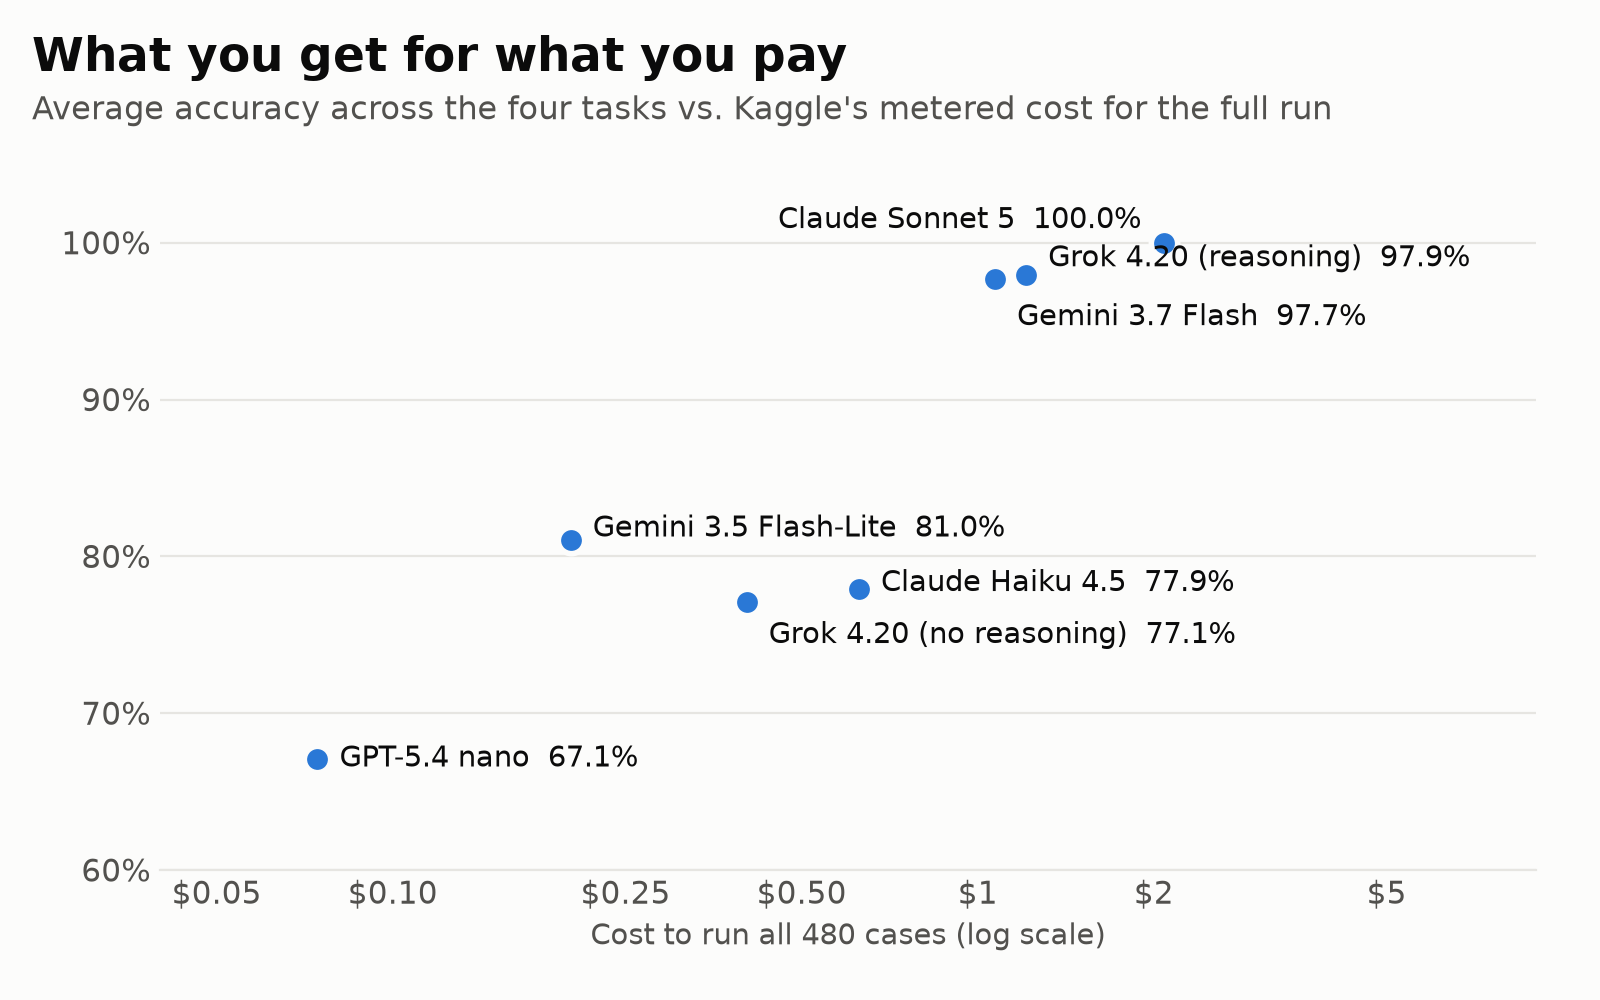
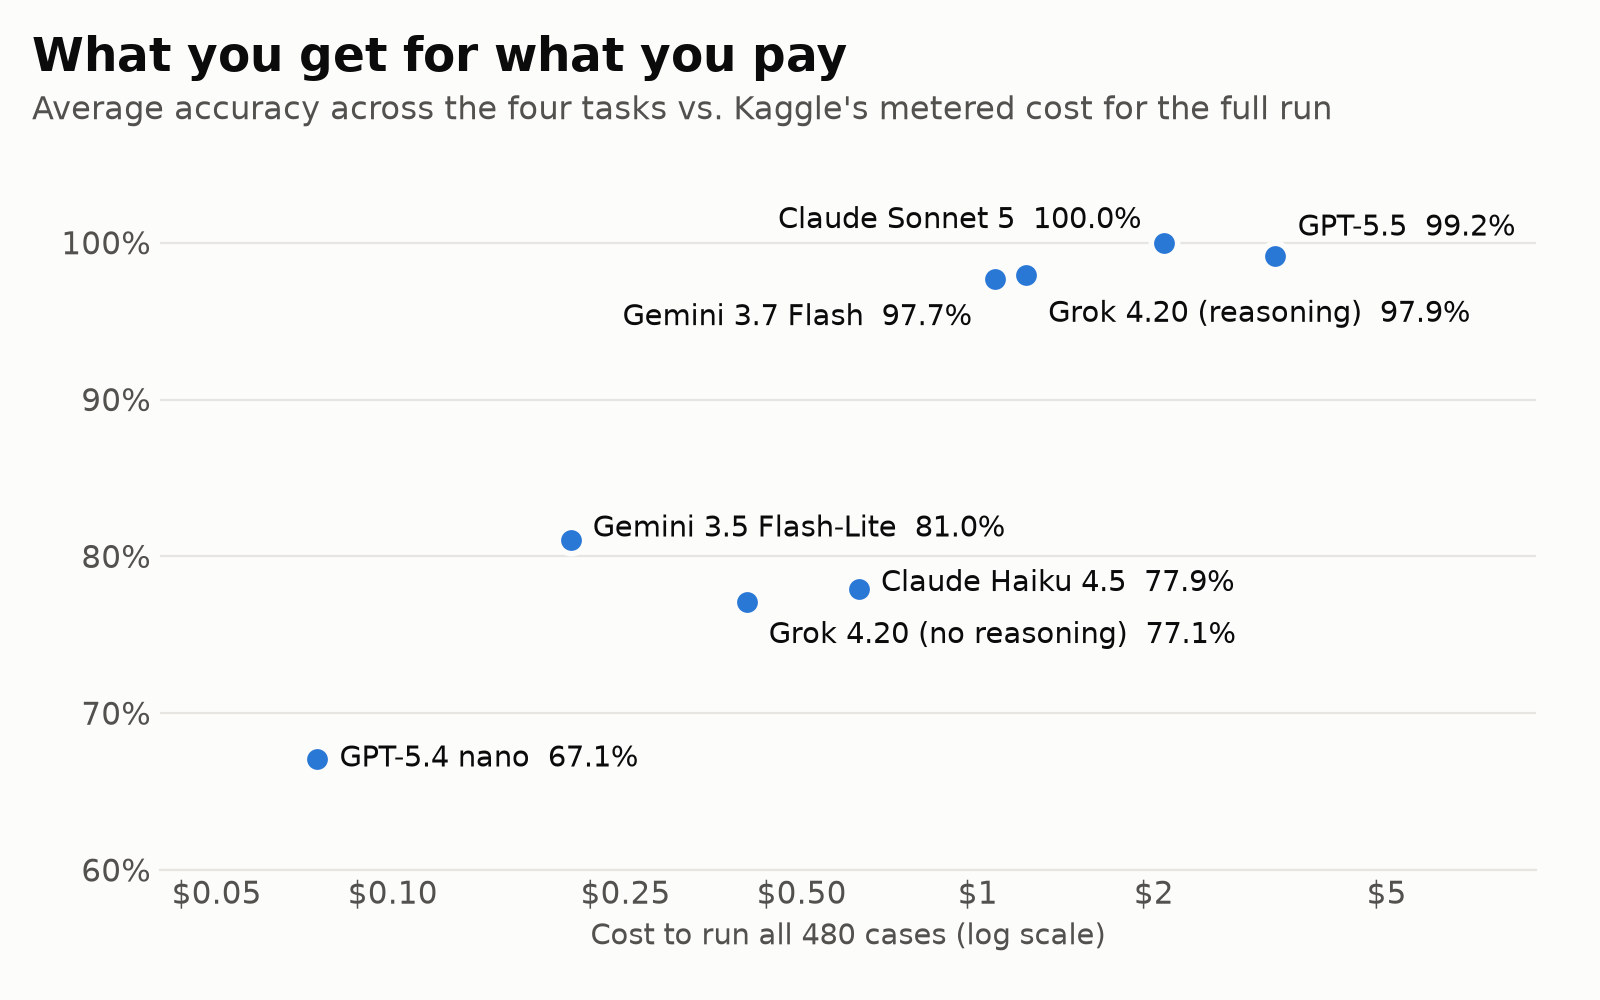
Add GPT-5.5 results to charts and post; document the jitter-rule ambiguity
GPT-5.5 complete on task v4: 100/100/96.7/100 (99.2 overall, $3.23). Its four
diagnosis misses are all page_one_exit cases that the prompt's jitter rule
('never a cause') contradicts; disclosed in the post and task docs.

Changed region(s): [[0.625, 0.217, 0.9375, 0.341], [0.375, 0.31, 0.5625, 0.341]]

diff --git a/scripts/make_charts.py b/scripts/make_charts.py
@@ -128,10 +128,10 @@ def chart_value(models):
     fig, ax = plt.subplots(figsize=(8, 5), facecolor=SURFACE)
     fig.subplots_adjust(left=0.10, right=0.96, top=0.82, bottom=0.13)
     offsets = {  # label placement, tuned by eye so nothing collides
-        "Claude Sonnet 5": (-8, 8, "right"), "Grok 4.20 (reasoning)": (8, 6, "left"),
-        "Gemini 3.7 Flash": (8, -14, "left"), "Gemini 3.5 Flash-Lite": (8, 4, "left"),
+        "Claude Sonnet 5": (-8, 8, "right"), "Grok 4.20 (reasoning)": (8, -14, "left"),
+        "Gemini 3.7 Flash": (-8, -14, "right"), "Gemini 3.5 Flash-Lite": (8, 4, "left"),
         "Claude Haiku 4.5": (8, 2, "left"), "Grok 4.20 (no reasoning)": (8, -12, "left"),
-        "GPT-5.4 nano": (8, 0, "left"), "GPT-5.5": (8, 0, "left"),
+        "GPT-5.4 nano": (8, 0, "left"), "GPT-5.5": (8, 10, "left"),
     }
     for name, v in models.items():
         overall = sum(v["acc"].values()) / 4

diff --git a/post/dev-post.md b/post/dev-post.md
@@ -111,6 +111,7 @@ comparison answers a practical question:
 | Model | Tool choice | Data reading | Diagnosis | SQL | **Overall** | Cost (480 cases) |
 |---|---|---|---|---|---|---|
 | Claude Sonnet 5 | 100 | 100 | 100 | 100 | **100.0** | $2.08 |
+| GPT-5.5 | 100 | 100 | 96.7 | 100 | **99.2** | $3.23 |
 | Grok 4.20 (reasoning) | 100 | 96.7 | 100 | 95.0 | **97.9** | $1.21 |
 | Gemini 3.7 Flash | 100 | 100 | 100 | 90.8 | **97.7** | $1.07 |
 | Gemini 3.5 Flash-Lite | 98.3 | 88.3 | 49.2 | 88.3 | **81.0** | $0.20 |
@@ -118,16 +119,12 @@ comparison answers a practical question:
 | Grok 4.20 (no reasoning) | 98.3 | 82.5 | 35.0 | 92.5 | **77.1** | $0.40 |
 | GPT-5.4 nano | 93.3 | 61.7 | 20.0 | 93.3 | **67.1** | $0.07 |
 
-**GPT-5.5** scored 100 on tool choice, 100 on data reading and **90.8 on diagnosis**. Of the expensive
-models, it's the only one below 100% on diagnosis. It sits in its own line because Kaggle's daily model
-budget ran out before its SQL run.
-
 ### 1. Tool choice is solved. Diagnosis is where models split.
 
 Every model picked the right tool at least 93% of the time. So "can it call tools?" is no longer the
 interesting question for an analytics assistant. The real question is whether it understands what the
-numbers *mean*. On diagnosis, the top three models score 100%, and every cheaper model scores between
-20% and 49%.
+numbers *mean*. On diagnosis, the top three models score 100%, GPT-5.5 scores 96.7%, and every cheaper
+model scores between 20% and 49%.
 
 ![Diagnosis accuracy by model](diagnosis_accuracy.png)
 
@@ -198,12 +195,32 @@ one. In 8 of those 9 cases, the second query was right. Graded on its last query
 be 93.3% instead of 86.7%. That's a real cost of thinking out loud inside a tool call: whatever sits
 between your model and your database reads the first answer.
 
-### 7. Value: Gemini 3.7 Flash is the sweet spot
+### 7. GPT-5.5's only misses came from my prompt
+
+GPT-5.5 made exactly four mistakes on diagnosis, and all four are the same one. Each time, a page slid
+just past #10 (#10 to #11 twice, #10 to #12 once, #9 to #11 once): it fell off page one, so the
+answer is `page_one_exit`. GPT-5.5 said
+`unexplained_by_serp` every time.
+
+Rereading my prompt, I found two rules that clash:
+
+- `page_one_exit`: "position 1–10 before; now below 10".
+- "Moves of 1–2 places are normal jitter and are **never a cause**."
+
+I meant the jitter rule to cover `rank_drop` and `rank_gain`. GPT-5.5 took "never" literally. Claude
+Sonnet 5, Gemini 3.7 Flash and Grok with reasoning all read the intent. Neither reading is careless.
+One model follows the letter of an instruction and others follow its spirit, and that's worth knowing
+about any model you give rules to. It's also a reminder that **a benchmark's prompt is code too**.
+The next version will say "never counts as `rank_drop` or `rank_gain`", and I'm reporting the
+score as it stands rather than quietly fixing it.
+
+### 8. Value: Gemini 3.7 Flash is the sweet spot
 
 ![What you get for what you pay](score_vs_cost.png)
 
-Gemini 3.7 Flash reaches 97.7% at about half the cost of Claude Sonnet 5. Below the top three there's a
-cliff: no model under $0.65 per run scored above 81%, and all of them fell apart on diagnosis.
+Gemini 3.7 Flash reaches 97.7% at about half the cost of Claude Sonnet 5. GPT-5.5 was the most
+expensive run ($3.23) and still finished just behind Sonnet. Below the top four there's a cliff: no model
+under $0.65 per run scored above 81%, and all of them fell apart on diagnosis.
 
 ### So what will power Pulse?
 
@@ -211,7 +228,8 @@ cliff: no model under $0.65 per run scored above 81%, and all of them fell apart
 price of the most accurate model. Its one weakness is fixable in code: wrap `->>` comparisons in
 parentheses before running any generated SQL.
 
-**Claude Sonnet 5 as the fallback** for anything SQL-heavy, since it was perfect everywhere.
+**Claude Sonnet 5 as the fallback** for anything SQL-heavy, since it was perfect everywhere, and
+cheaper than GPT-5.5 for the same job.
 
 **No cheaper model for diagnosis.** An assistant that shrugs at a 47% drop costs more than it saves.
 
@@ -234,6 +252,7 @@ These lessons carry over to any assistant that works with numbers:
 ### What I'd measure next
 
 - **Consistency:** run each model three times and count how often the same case flips.
+- **The fixed jitter rule:** rerun every model and see whether GPT-5.5 reaches 100%, and whether any other model's score changes.
 - **Real tool calls:** multi-turn runs where the model actually calls InsightTrack's tools, instead of naming the one it would call.
 - **Messier evidence:** seasonality, like a holiday dip that isn't search, alongside keywords that point in different directions.
 
@@ -242,6 +261,7 @@ These lessons carry over to any assistant that works with numbers:
 - **"Correct" means correct by InsightTrack's rules.** Every rule and threshold is written into the prompt, so this tests careful application, not guessing a hidden convention.
 - **Synthetic data, one run per model**, all through Kaggle's model proxy.
 - **SQL is graded strictly on the first query.** That costs Haiku, as described above.
+- **One rule in the diagnosis prompt is ambiguous** (the jitter rule vs. `page_one_exit`). It accounts for all four of GPT-5.5's misses. Fixed wording is planned for the next version.
 
 ## My Benchmark
 

diff --git a/docs/task-groups.md b/docs/task-groups.md
@@ -92,6 +92,11 @@ the README lists them. Run only one tier locally with `ITBENCH_DIFFICULTY=hard`.
 - Causes: `rank_drop`, `page_one_exit`, `ai_overview_displacement`, `ai_citation_lost`, `serp_feature_added` (drop only, on page one), `serp_feature_removed` / `rank_gain` / `ai_citation_gained` (spike only), and `unexplained_by_serp`.
 - A move of 1–2 places is never a cause.
 
+> **Known issue (task v4):** the prompt line "Moves of 1-2 places are normal jitter and are never a cause"
+> clashes with `page_one_exit` when a page moves from #10 to #11. GPT-5.5 read it literally and missed exactly
+> those cases (4 of 120). The fix for the next version: "never counts as rank_drop or rank_gain". Changing it means
+> a new task version and rerunning every model, because the leaderboard only shows the newest version.
+
 **Graded:**
 - **Not significant:** the model must say `significant: false`.
 - **Significant:** it must match significant, direction and the **exact** set of causes. Order doesn't matter.
